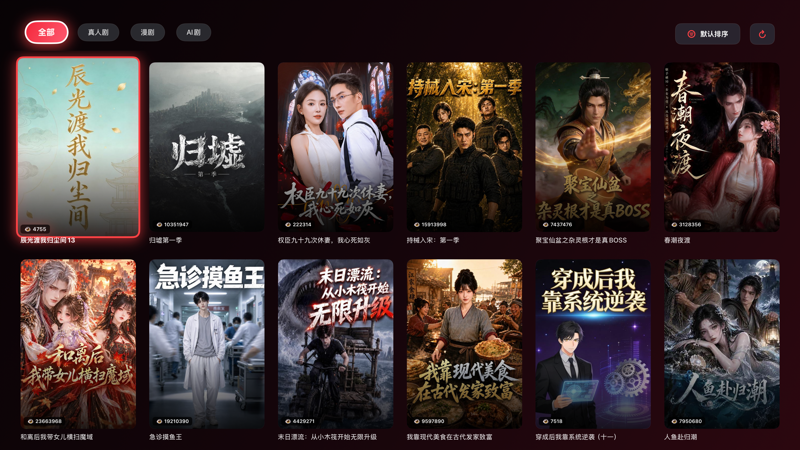
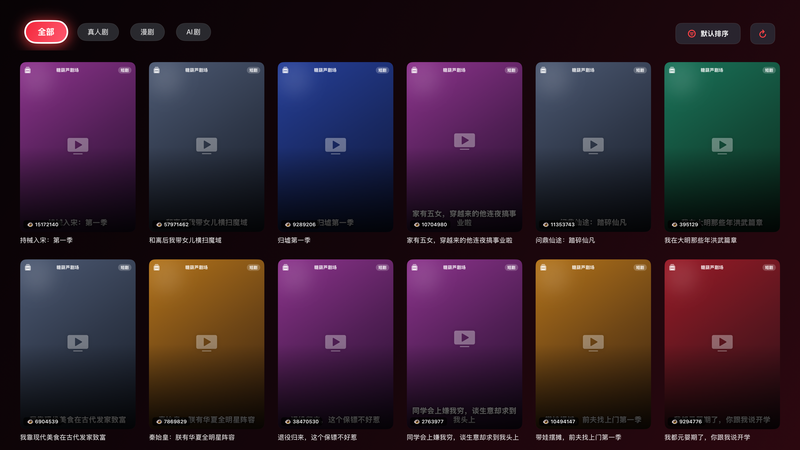
feat(tvos): 完成tvOS全套4K截图截取并同步上传至App Store Connect

diff --git a/tvos/THLRedLookUITests/RemoteNavigationTests.swift b/tvos/THLRedLookUITests/RemoteNavigationTests.swift
@@ -3139,6 +3139,86 @@ extension RemoteNavigationTests {
 
         print("THL_ALL_NEW_TVOS_SCREENSHOTS_CAPTURED count=7")
     }
+
+    /// 截取用于提交 App Store 的 4K（3840x2160）全高清应用展示图
+    func testCaptureAppStoreScreenshots() throws {
+        continueAfterFailure = false
+        let shotDir = URL(fileURLWithPath: "/Volumes/MacintoshData/Work/MY/Project/Product/THLRedGuo/tvos/fastlane/screenshots/zh-Hans")
+        let artifactDir = URL(fileURLWithPath: "/Users/never88gone/.gemini/antigravity/brain/78fa14d0-288b-4e8f-86e6-1d40abdc3d60/appstore_screenshots")
+        try? FileManager.default.createDirectory(at: shotDir, withIntermediateDirectories: true)
+        try? FileManager.default.createDirectory(at: artifactDir, withIntermediateDirectories: true)
+
+        func saveShot(_ name: String) {
+            let shot = XCUIScreen.main.screenshot()
+            try? shot.pngRepresentation.write(to: shotDir.appendingPathComponent(name))
+            try? shot.pngRepresentation.write(to: artifactDir.appendingPathComponent(name))
+            print("THL_APPSTORE_SCREENSHOT_SAVED: \(name)")
+        }
+
+        // 1. 首页探索 (Home / Catalog)
+        app.launchEnvironment["DISABLE_REMOTE_IMAGES"] = "1"
+        app.launchArguments = ["-testPage", "catalog", "-thl_icloud_sync_enabled", "NO"]
+        app.launch()
+        wait("catalog ready", seconds: 35) { self.app.buttons["nav.catalog"].exists }
+        if app.buttons["nav.catalog"].hasFocus {
+            remote.press(.right)
+        }
+        Thread.sleep(forTimeInterval: 1.5)
+        saveShot("01_home.png")
+        app.terminate()
+
+        // 2. 热门榜单 (Rankings)
+        app.launchArguments = ["-testPage", "rankings", "-thl_icloud_sync_enabled", "NO"]
+        app.launch()
+        wait("rankings ready", seconds: 35) { self.app.buttons["nav.rankings"].exists }
+        if app.buttons["nav.rankings"].hasFocus {
+            remote.press(.right)
+        }
+        Thread.sleep(forTimeInterval: 1.5)
+        saveShot("02_rankings.png")
+        app.terminate()
+
+        // 3. 剧集详情 (Detail)
+        app.launchArguments = ["-testPage", "detail", "-testDramaId", "test_screenshot_drama", "-testDramaTitle", "龙王令：都市至尊", "-thl_icloud_sync_enabled", "NO"]
+        app.launch()
+        wait("detail loaded", seconds: 35) { self.app.buttons["detail.favorite"].exists }
+        wait("detail play focus", seconds: 20) { self.app.buttons["detail.play"].hasFocus }
+        Thread.sleep(forTimeInterval: 1.0)
+        saveShot("03_detail.png")
+        app.terminate()
+
+        // 4. 播放器两层居中控制栏 (Player Controls)
+        app.launchArguments = ["-testPage", "controls", "-testEpisode", "5", "-thl_icloud_sync_enabled", "NO"]
+        app.launch()
+        wait("player controls ready", seconds: 35) { self.app.buttons["player.playPause"].exists }
+        Thread.sleep(forTimeInterval: 1.0)
+        saveShot("04_player.png")
+
+        // 5. 弹幕样式设置抽屉 (Danmaku Settings)
+        press(.down, focus: "player.speed")
+        if app.buttons["player.quality"].exists {
+            press(.right, focus: "player.quality")
+        }
+        press(.right, focus: "player.danmaku")
+        press(.right, focus: "player.danmakuSettings")
+        press(.select)
+        wait("danmaku settings drawer opened", seconds: 15) { self.app.buttons["danmaku.switch.on"].exists }
+        Thread.sleep(forTimeInterval: 1.0)
+        saveShot("05_danmaku.png")
+        remote.press(.menu)
+        app.terminate()
+
+        // 6. 媒体库 (Library / My)
+        app.launchArguments = ["-testPage", "library", "-thl_icloud_sync_enabled", "NO"]
+        app.launch()
+        wait("library history ready", seconds: 35) { self.app.buttons["library.tab.history"].exists }
+        if app.buttons["nav.library"].hasFocus { press(.right, focus: "library.tab.history") }
+        Thread.sleep(forTimeInterval: 1.0)
+        saveShot("06_library.png")
+        app.terminate()
+
+        print("THL_APPSTORE_SCREENSHOTS_CAPTURED count=6")
+    }
 }
 
 extension RemoteNavigationTests {
